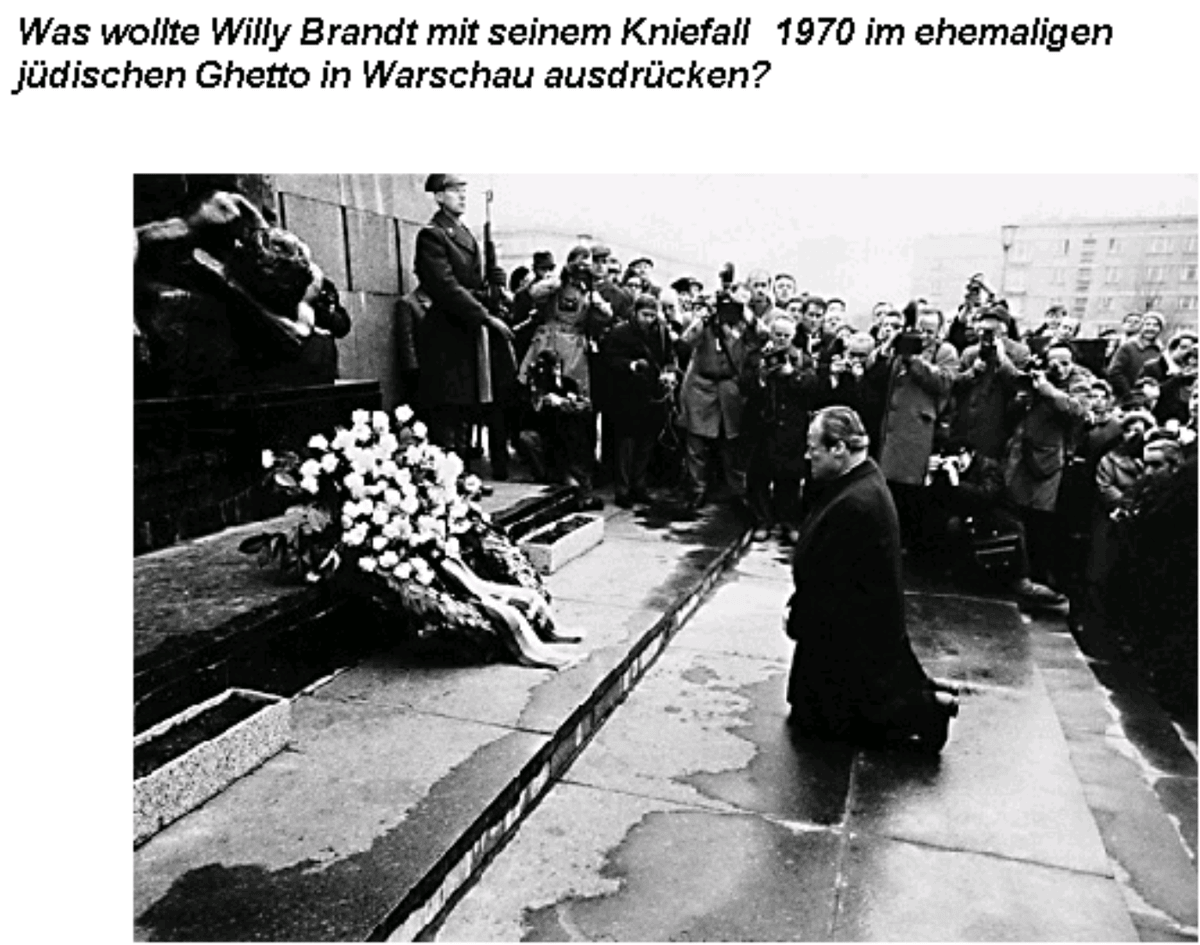
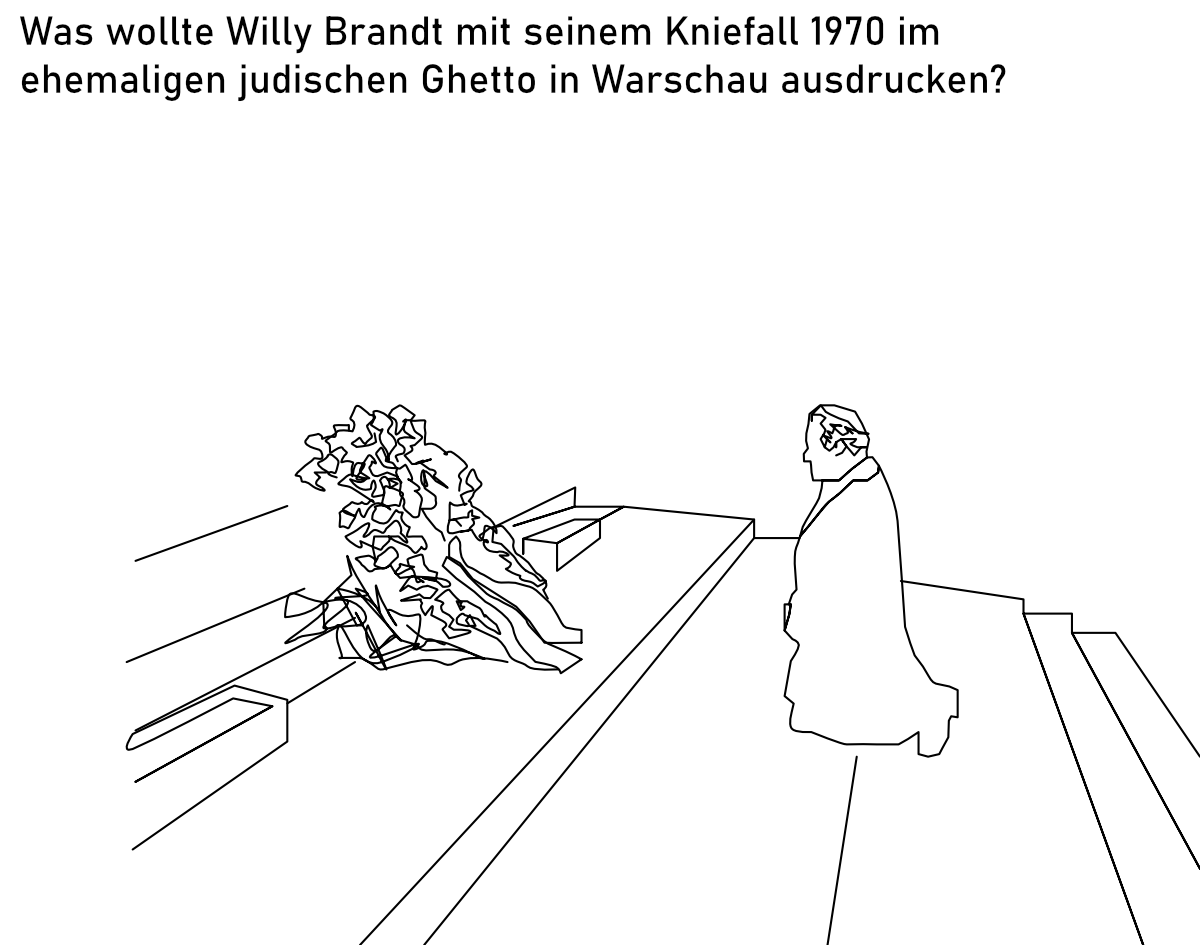
Replace B181 image with corrected redraw

diff --git a/README.md b/README.md
@@ -38,7 +38,7 @@ No web server is required; `data/questions.js`, `data/vocabulary.js` and `data/i
[1 lines of base64/hex data omitted]
   <https://www.bamf.de/SharedDocs/Anlagen/DE/Integration/Einbuergerung/gesamtfragenkatalog-lebenindeutschland.html?nn=284310>
 - **Answers, English translations, explanations and images**: [abdullahbutt/leben-in-deutschland-test](https://github.com/abdullahbutt/leben-in-deutschland-test), version 2026-10-28. **The German question and option wording is taken verbatim from the official BAMF PDF**; the dataset supplies the answer key, English translations, explanations and images. The translations and explanations are licensed under **CC BY-NC 4.0** (attribution, non-commercial use). `data/overrides.json` contains manual corrections for the few items where the dataset described a different paraphrase (e.g. B232, B247, HB02, SN07).
-- **B021, B055, B070, B130 and B176 images**: `data/images/21.png`, `data/images/55.png`, `data/images/70.png`, `data/images/130.png` and `data/images/176.png` are redrawn replacements added for this project; the remaining images come from the dataset.
+- **B021, B055, B070, B130, B176 and B181 images**: `data/images/21.png`, `data/images/55.png`, `data/images/70.png`, `data/images/130.png`, `data/images/176.png` and `data/images/181.png` are redrawn replacements added for this project; the remaining images come from the dataset.
 - This is an independent learning app, not an official BAMF product. Use is intended for personal, non-commercial exam preparation.
 
 ## Project layout
